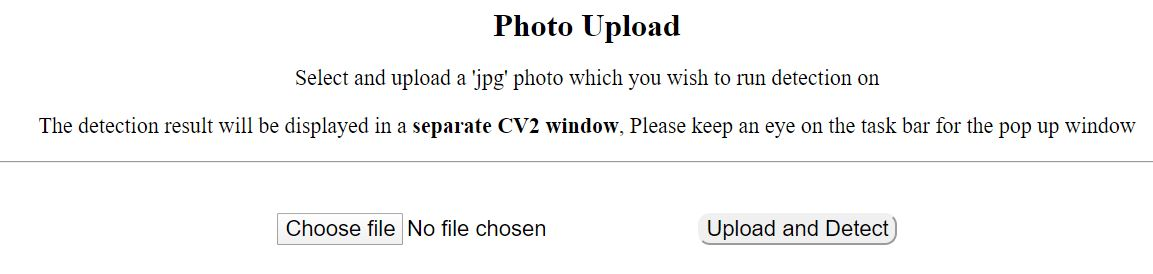
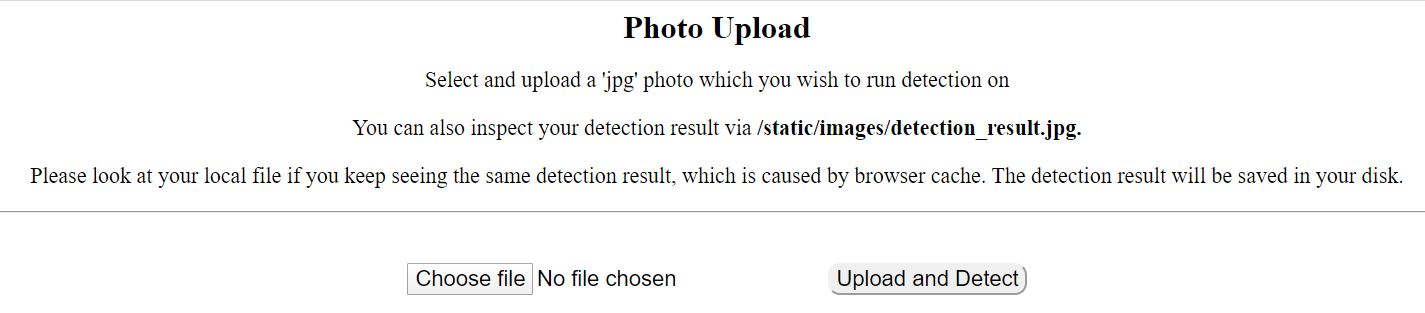
save files rather than show in CV2 window

diff --git a/research/object_detection/result_detect.html b/research/object_detection/result_detect.html
@@ -1,0 +1,40 @@
+<!DOCTYPE html>
+<html>
+<head>
+    <title>Detection result</title>
+    <style>
+img {
+  max-width: 100%;
+  height: auto;
+}
+
+.btn {
+  border: none;
+  color: red;
+  border: 2px solid red; /* Green */
+  text-align: center;
+  text-decoration: none;
+  display: inline-block;
+  font-size: 16px;
+  margin: 4px 2px;
+  padding: 14px 40px;
+  cursor: pointer;
+  transition-duration: 0.4s;
+}
+.btn:hover {
+  background-color: #4CAF50; /* Green */
+  color: white;
+}
+</style>
+</head>
+<body>
+<h1 style="text-align:center;font-size:40px">Detection Result</h1>
+<form action = "http://localhost:5000/" method="GET">
+        <center><button class="btn" name="bachHomeButton" type="submit">Go Back</button></center>
+</form>
+<hr>
+
+  <center><img src="{{ url_for('static', filename='/images/detection_result.jpg' ) }}" alt="detection results" class="image" style="display:inline"></center>
+<hr>
+</body>
+</html>

diff --git a/research/object_detection/upload_detect.html b/research/object_detection/upload_detect.html
@@ -19,7 +19,8 @@
    <body>
    <h1 style="text-align:center">Photo Upload</h1>
    <p style="text-align:center;margin-top:20px; font-size:22px">Select and upload a 'jpg' photo which you wish to run detection on</p>
-   <p style="text-align:center; font-size:22px">The detection result will be displayed in a <strong>separate CV2 window</strong>, Please keep an eye on the task bar for the pop up window</p>
+   <p style="text-align:center;margin-top:20px; font-size:22px">You can also inspect your detection result via <strong>/static/images/detection_result.jpg.</strong></p>
+   <p style="text-align:center;margin-top:20px; font-size:22px">Please look at your local file if you keep seeing the same detection result, which is caused by browser cache. The detection result will be saved in your disk.</p>
    <hr>
 
      <center><form action = "http://localhost:5000/UploadDetect" method = "POST"

diff --git a/research/object_detection/index.html b/research/object_detection/index.html
@@ -25,9 +25,7 @@ img {
 
 <body>
 <h1 style="text-align:center">Detection Homepage</h1>
-<p style="text-align:center; font-size:22px">Please select from two options: </p>
-<p style="text-align:center; font-size:22px">If you would like to run an image detection, click the <strong>'Detect'</strong> button below</p>
-<p style="text-align:center; font-size:22px">The detection result will be displayed in a <strong>separate CV2 window</strong>, Please keep an eye on the task bar for the pop up window</p>
+<p style="text-align:center; font-size:22px">click the <strong>'Detect'</strong> button below to run detections on images</p>
 <hr>
 
 <div class="buttons" style="text-align:center">

diff --git a/research/object_detection/app-2class.py b/research/object_detection/app-2class.py
@@ -33,11 +33,13 @@ sys.path.append(ROOT_DIR)  # To find local version of the library
 CKPT_DIR = os.path.join(ROOT_DIR, "research/object_detection/data/faster_RCNN_banana_and_pear/frozen_inference_graph.pb")
 LABEL_DIR = os.path.join(ROOT_DIR, "research/object_detection/data/faster_RCNN_banana_and_pear/fruit_labelmap.pbtxt")
 
+IMAGE_DIR = os.path.join(ROOT_DIR, "research/object_detection/static/images/")
+
 UPLOAD_FOLDER = os.path.join(ROOT_DIR, "research/object_detection/upload_images")
 ALLOWED_EXTENSIONS = set(['jpg'])
 app.config['UPLOAD_FOLDER'] = UPLOAD_FOLDER
-
-
+# avoid caching, which prevent showing the detection/splash result
+app.config['SEND_FILE_MAX_AGE_DEFAULT'] = timedelta(seconds=1)
 class TOD(object):
     def __init__(self):
         self.PATH_TO_CKPT = CKPT_DIR
@@ -90,8 +92,8 @@ class TOD(object):
                     use_normalized_coordinates=True,
                     line_thickness=8)
 
-        cv2.namedWindow("detection", cv2.WINDOW_NORMAL)
-        cv2.imshow("detection", image)
+        # cv2.namedWindow("detection", cv2.WINDOW_NORMAL)
+        cv2.imwrite(os.path.join(IMAGE_DIR , 'detection_result.jpg'), image)
         cv2.waitKey(0)
 
 ################################################################
@@ -132,7 +134,7 @@ def upload_file_detect():
 @app.route('/detect')
 def detect():
     run_detection()
-    return render_template('upload_detect.html')
+    return render_template('result_detect.html')
 
 '''
 Main function to run Flask server

diff --git a/research/object_detection/app-pearonly.py b/research/object_detection/app-pearonly.py
@@ -33,10 +33,13 @@ sys.path.append(ROOT_DIR)  # To find local version of the library
 CKPT_DIR = os.path.join(ROOT_DIR, "research/object_detection/data/faster_RCNN_pear_only_v2/frozen_inference_graph.pb")
 LABEL_DIR = os.path.join(ROOT_DIR, "research/object_detection/data/faster_RCNN_pear_only_v2/fruit_labelmap.pbtxt")
 
+IMAGE_DIR = os.path.join(ROOT_DIR, "research/object_detection/static/images/")
+
 UPLOAD_FOLDER = os.path.join(ROOT_DIR, "research/object_detection/upload_images")
 ALLOWED_EXTENSIONS = set(['jpg'])
 app.config['UPLOAD_FOLDER'] = UPLOAD_FOLDER
-
+# avoid caching, which prevent showing the detection/splash result
+app.config['SEND_FILE_MAX_AGE_DEFAULT'] = timedelta(seconds=1)
 class TOD(object):
     def __init__(self):
         self.PATH_TO_CKPT = CKPT_DIR
@@ -89,8 +92,8 @@ class TOD(object):
                     use_normalized_coordinates=True,
                     line_thickness=8)
 
-        cv2.namedWindow("detection", cv2.WINDOW_NORMAL)
-        cv2.imshow("detection", image)
+        # cv2.namedWindow("detection", cv2.WINDOW_NORMAL)
+        cv2.imwrite(os.path.join(IMAGE_DIR , 'detection_result.jpg'), image)
         cv2.waitKey(0)
 
 ################################################################
@@ -131,7 +134,7 @@ def upload_file_detect():
 @app.route('/detect')
 def detect():
     run_detection()
-    return render_template('upload_detect.html')
+    return render_template('result_detect.html')
 
 '''
 Main function to run Flask server

diff --git a/README.md b/README.md
@@ -177,11 +177,11 @@ Setting up the server can take a while as it has to initialize the model, usuall
 
 # Usage
 
-1. Open a web browser and visit `http://127.0.0.1:5000/`![successfully setup server](assets/home_page.png)
+1. Open a web browser and visit `http://127.0.0.1:5000/`![successfully setup server](assets/home_page.JPG)
 2. Click The `Detect` button if you wish to run standard fruit detection. 
 3. Click `Choose File` button to chose a 'jpg' image, then upload the image to model via `Upload and Detect`button. Wait for the computer to run the detection. The detection time can vary depends on the image quality, fruit density and computational power. ![successfully setup server](assets/upload.JPG)
-4. The detection result will be shown on a separate window, please keep an eye on the task bar for the pop up window![successfully setup server](assets/result.JPG)
-5. If you wish to detect another image, close the pop up image window, you will be redirect back to the image upload page. Simply run the above steps again to detect another image
+4. The detection result will be shown on another page. Please also note that the detection result will be saved to `object_detection/static/images/detection_result.jpg`. Manually inspect result can be useful if you keep seeing the same output on the webpage, which is caused by browser cache.![successfully setup server](assets/result.JPG)
+5. If you wish to detect another image, click the go back button and follow the above steps again. 
 
 ## Note
 
